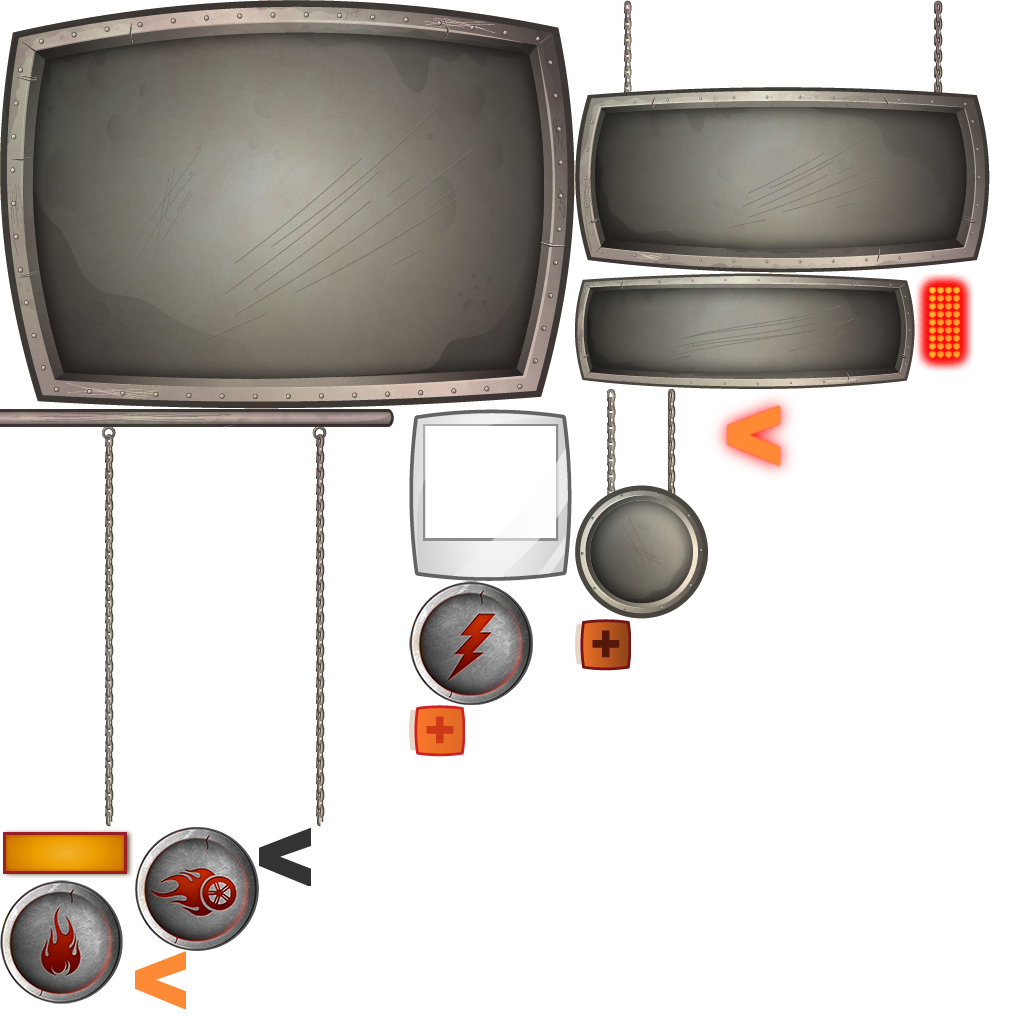
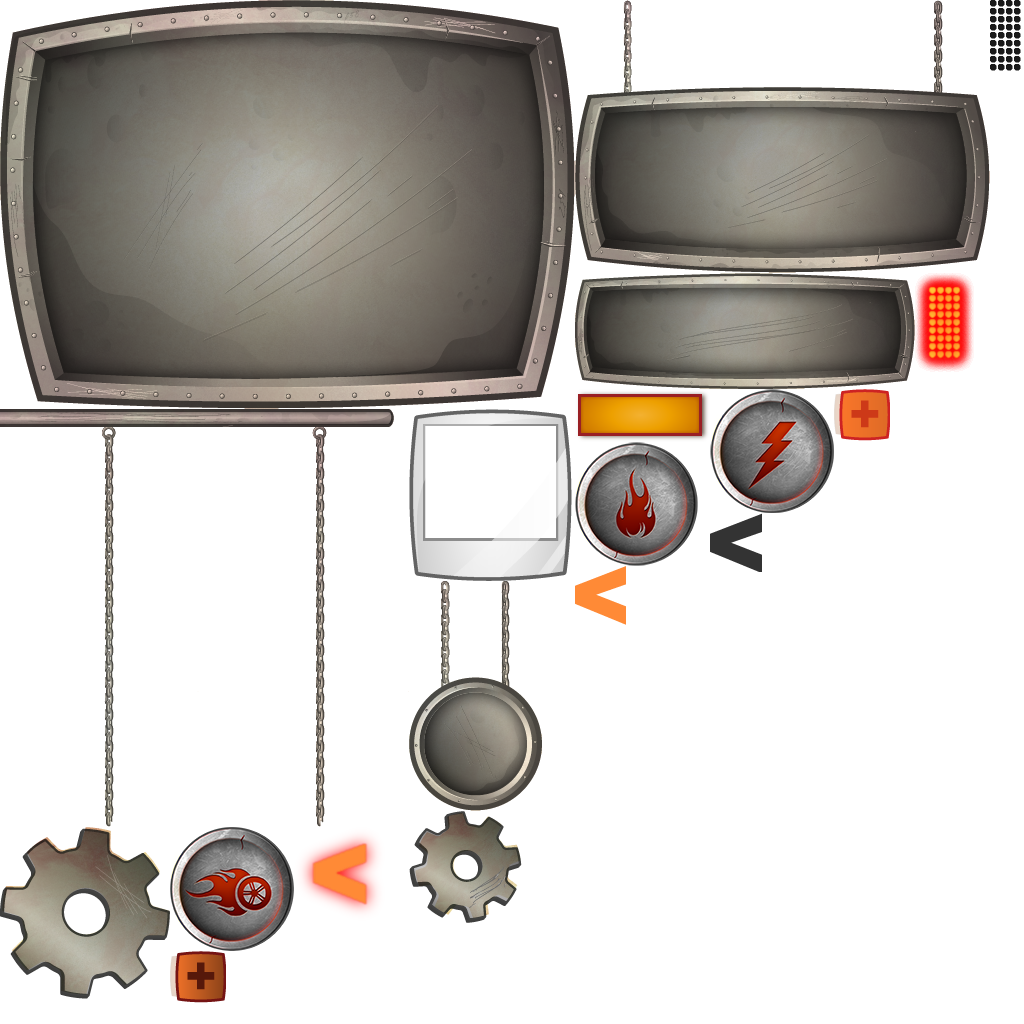
fix do AtlasMakera, pooprawnie wyliczane rozmiary spritow

Changed region(s): [[0.0, 0.5625, 0.5312, 1.0], [0.5625, 0.375, 0.875, 0.6562], [0.9688, 0.0, 1.0, 0.0938]]

diff --git a/Tools/AtlasMaker/AtlasMaker/Program.cs b/Tools/AtlasMaker/AtlasMaker/Program.cs
@@ -128,7 +128,7 @@ namespace AtlasMaker
                     continue;
                 }
 
-                sprite.Bounds = new Rect(location, sprite.Bounds.Size);
+                sprite.Bounds = new Rect(location, sprite.CropBounds.Size);
             }
         }
     }
